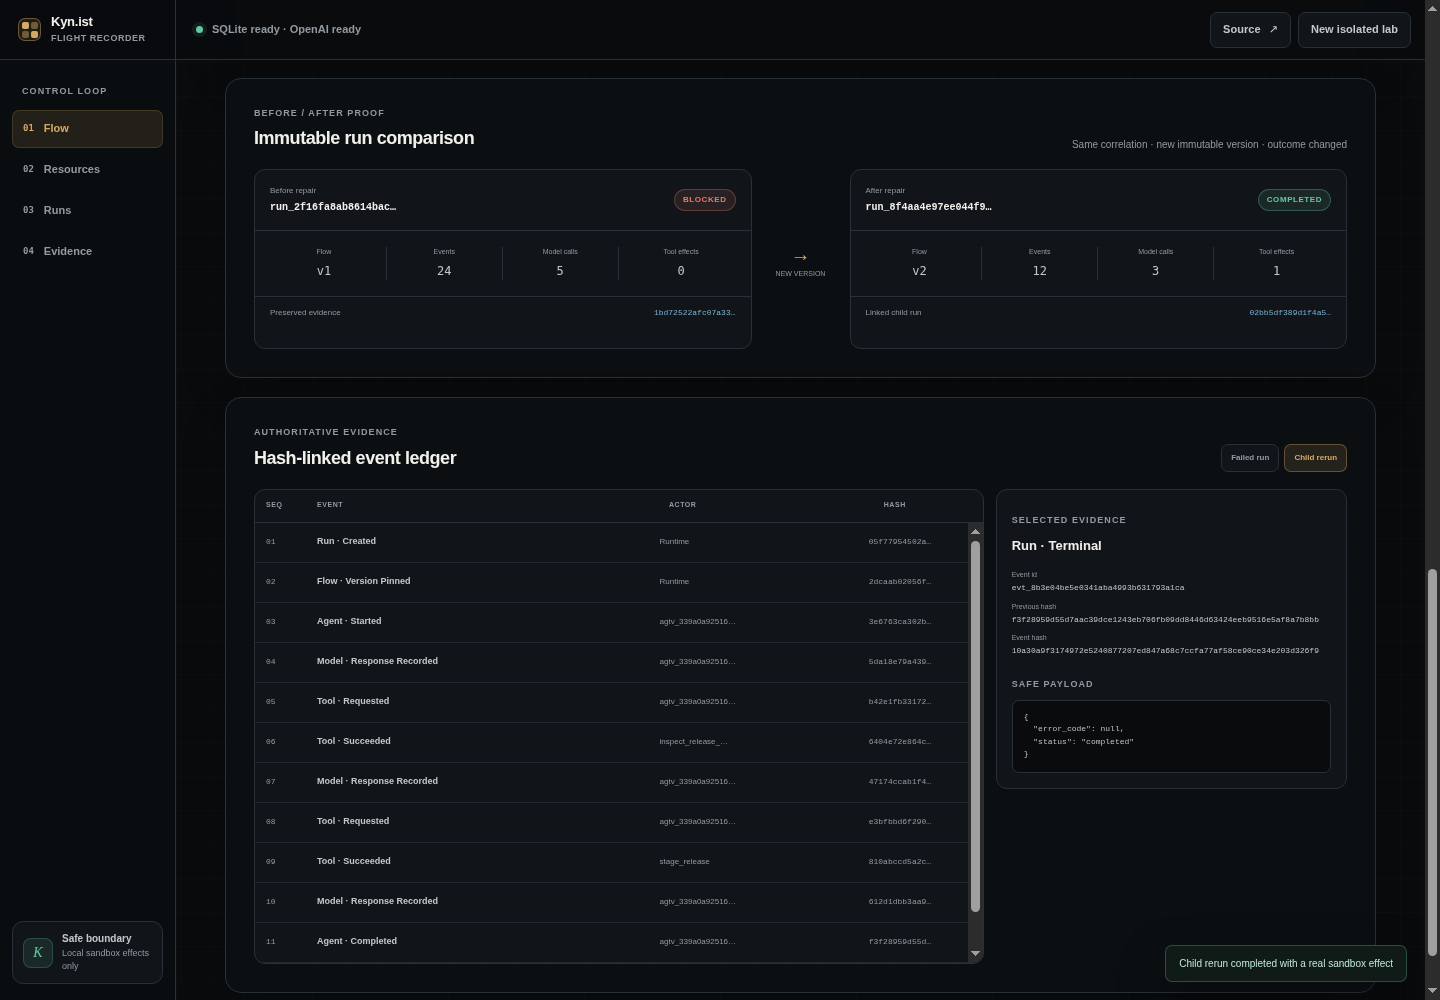
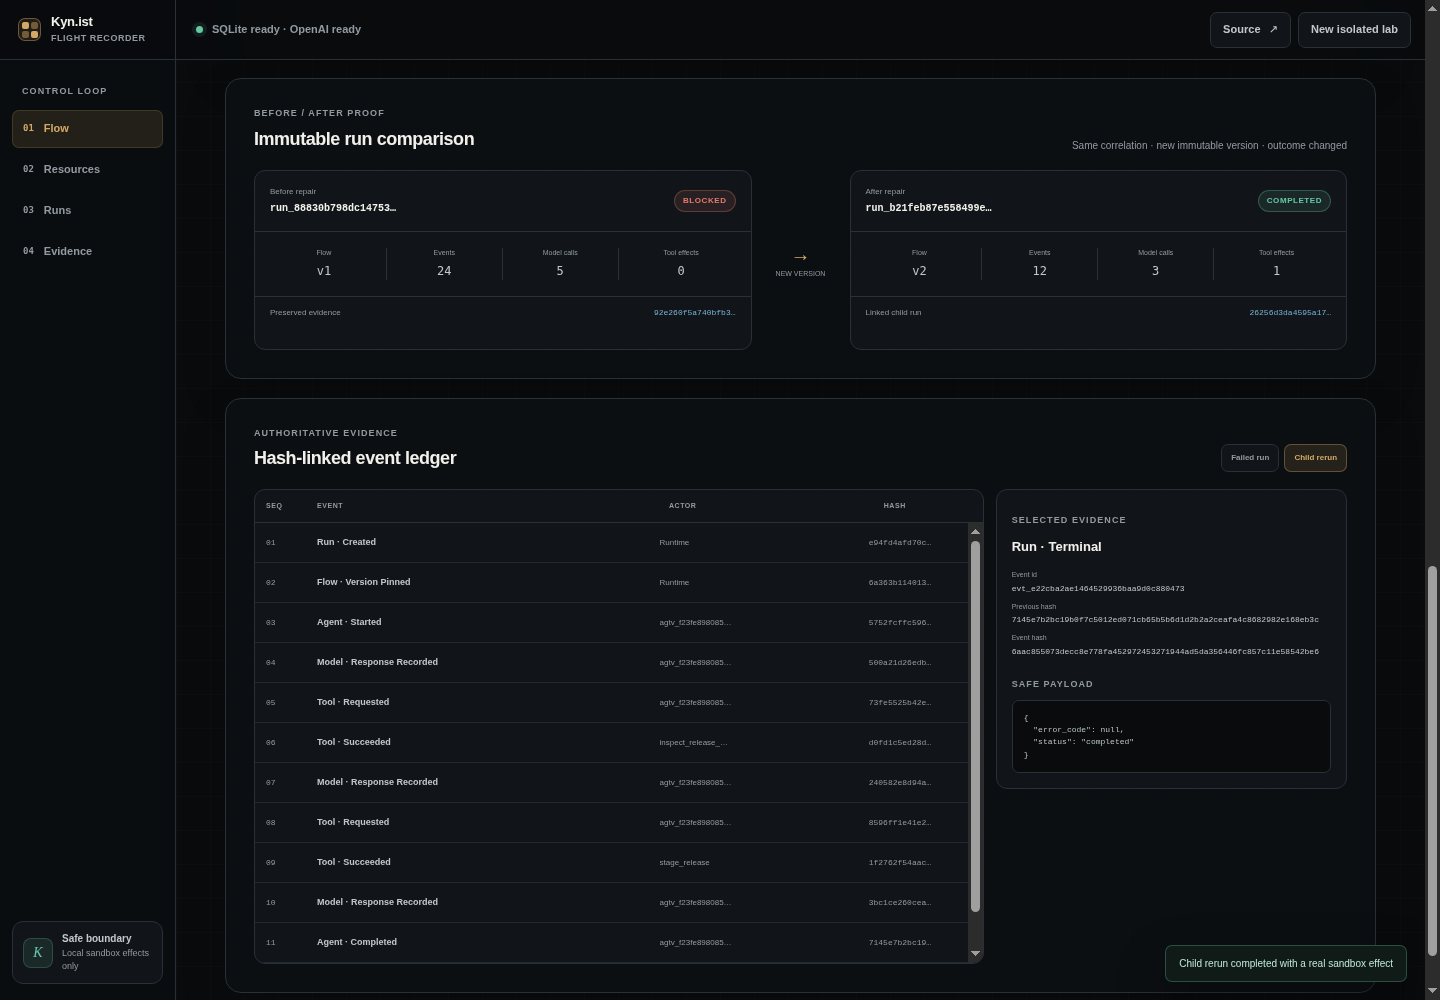
evidence: refresh public proof after rerun fence

diff --git a/README.md b/README.md
@@ -199,6 +199,7 @@ runtime:
 | `02be363` | concurrent-workspace execution fence |
 | `c0433dc` | persistent bridge-bound deployment service |
 | `2523c91` | public HTTPS gpt-5.6 closed-loop proof |
+| `a529bb3` | exactly-once child rerun fence |
 
 ## Honest limits
 